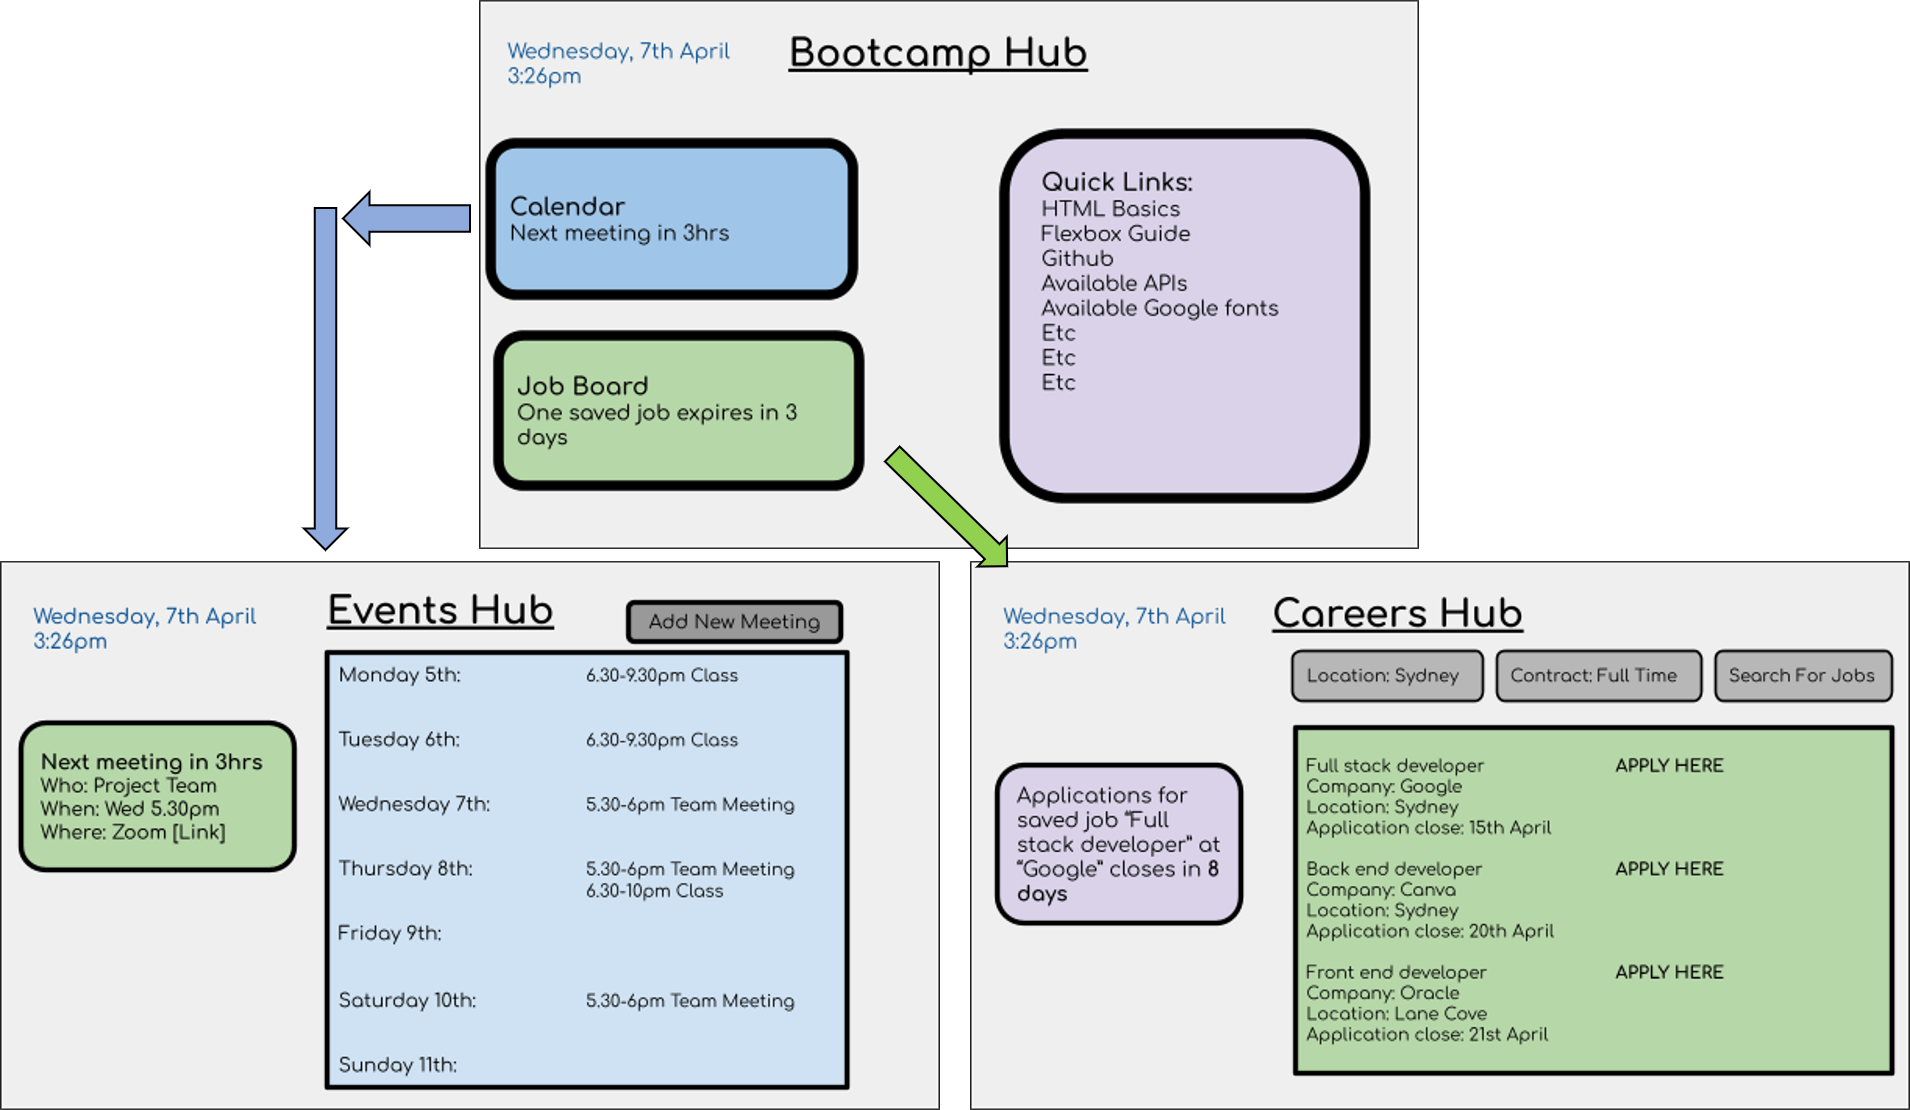
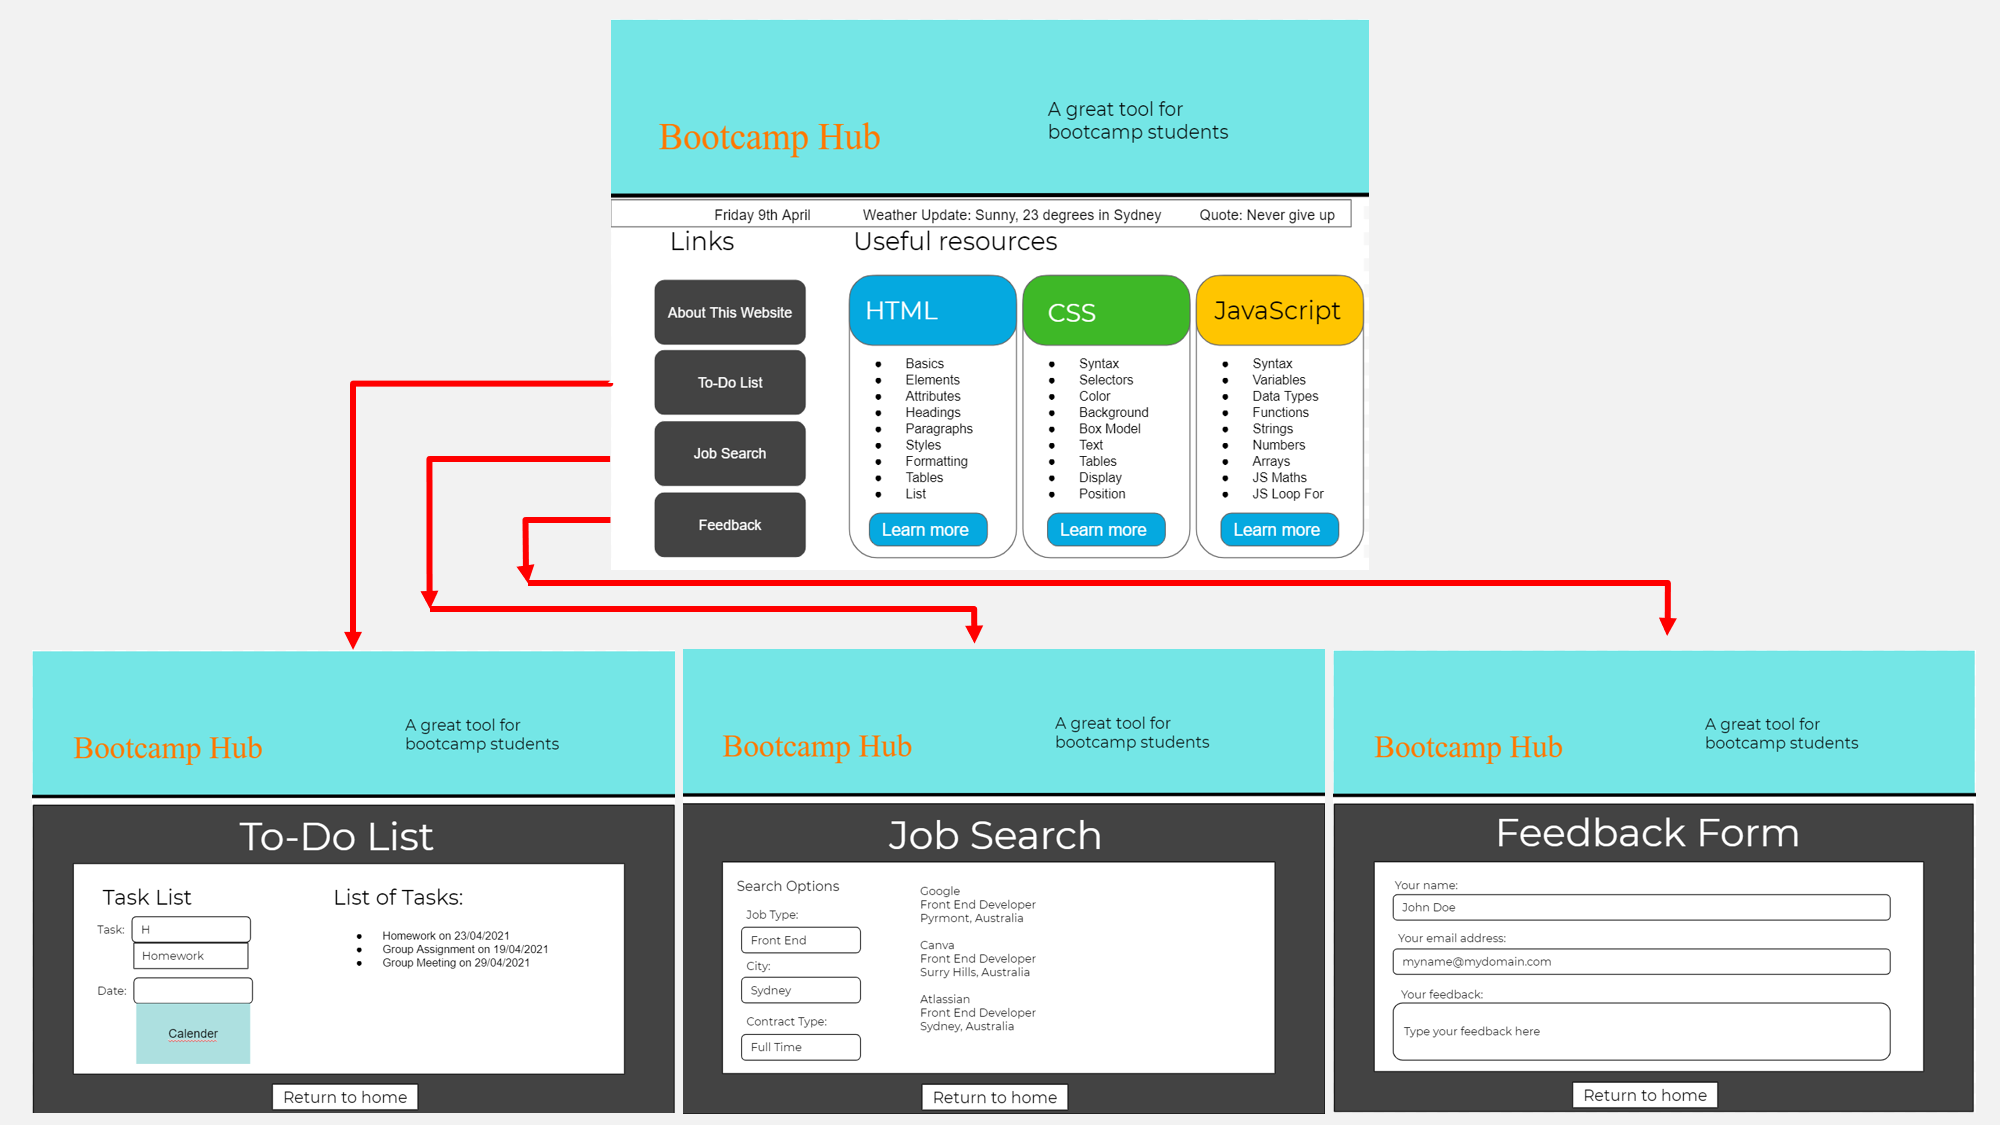
reshuffle jobsearch and update to readme

diff --git a/index.html b/index.html
@@ -70,8 +70,9 @@
 					<h2>Links</h2>
 					<a href="./assets/documents/about_this_website.pdf" class="btn btn-block p-3 my-2 btn-dark" target="_blank">About This Website</a>
 					<a href="./component_todo-list.html" class="btn btn-block p-3 my-2 btn-dark">To-do List</a>
-					<a href="./component_job_search.html" class="btn btn-block p-3 my-2 btn-dark">Job Search</a>
 					<a href="./component_feedback.html" class="btn btn-block p-3 my-2 btn-dark">Feedback</a>
+					<a href="./component_job_search.html" class="btn btn-block p-3 my-2 btn-danger">Job Search</a>
+					<a href="./component_job_search.html" class="btn btn-block p-3 my-2 btn-danger">ABC</a>
 			  	</div>
 
 				<div class="col-12 col-md-9">

diff --git a/README.md b/README.md
@@ -4,16 +4,42 @@ README
 Creating a Project that applies the knowladge of html, css, javascript and Api's to create a responsive website that can help students keep on top of their work and organised.
 
 Project team-
-1. Daniel Padgett
-2. Jessica Luff
-3. Mohit Arora
-4. Nadja Antonjak 
 
-WHAT WAS YOUR MOTIVATION ?
-WHY DID YOU BULID THIS PROJECT?
-WHAT PROBLEMS DOES IT SOLVE?
-WHAT DID YOU LEARN ?
-WHAT MAKES YOUR PROJECT STAND OUT ?
+1. [Daniel Padgett](https://github.com/danpadge16)
+2. [Jessica Luff](https://github.com/JessLuff)
+3. [Mohit Arora](https://github.com/marora7926)
+4. [Nadja Antonjak](https://github.com/nadjaantonjak)
+
+
+## WHAT WAS YOUR MOTIVATION ?
+
+```
+
+```
+
+## WHY DID YOU BULID THIS PROJECT?
+
+```
+
+```
+
+## WHAT PROBLEMS DOES IT SOLVE?
+
+```
+
+```
+
+## WHAT DID YOU LEARN ?
+
+```
+
+```
+
+## WHAT MAKES YOUR PROJECT STAND OUT ?
+
+```
+
+```
 
 ## User Story
 
@@ -45,7 +71,7 @@ https://marora7926.github.io/bootcamp-hub/
 
 ## Screenshot - Landing page
 
-![Screenshot-Landing-page](./assets/images/landing page.png)
+![Screenshot-Landing-page](./assets/images/landing-page.png)
 
 ## Screenshot - To-do list page
 
@@ -57,7 +83,7 @@ https://marora7926.github.io/bootcamp-hub/
 
 ## Screenshot - Feebback page
 
-![Screenshot-feedback-pa](./assets/images/Feedback-page.png)
+![Screenshot-feedback-pa](./assets/images/feedback-page.png)
 
 - - -
 © 2021 Bootcamp students. Confidential and Proprietary. All Rights Reserved
